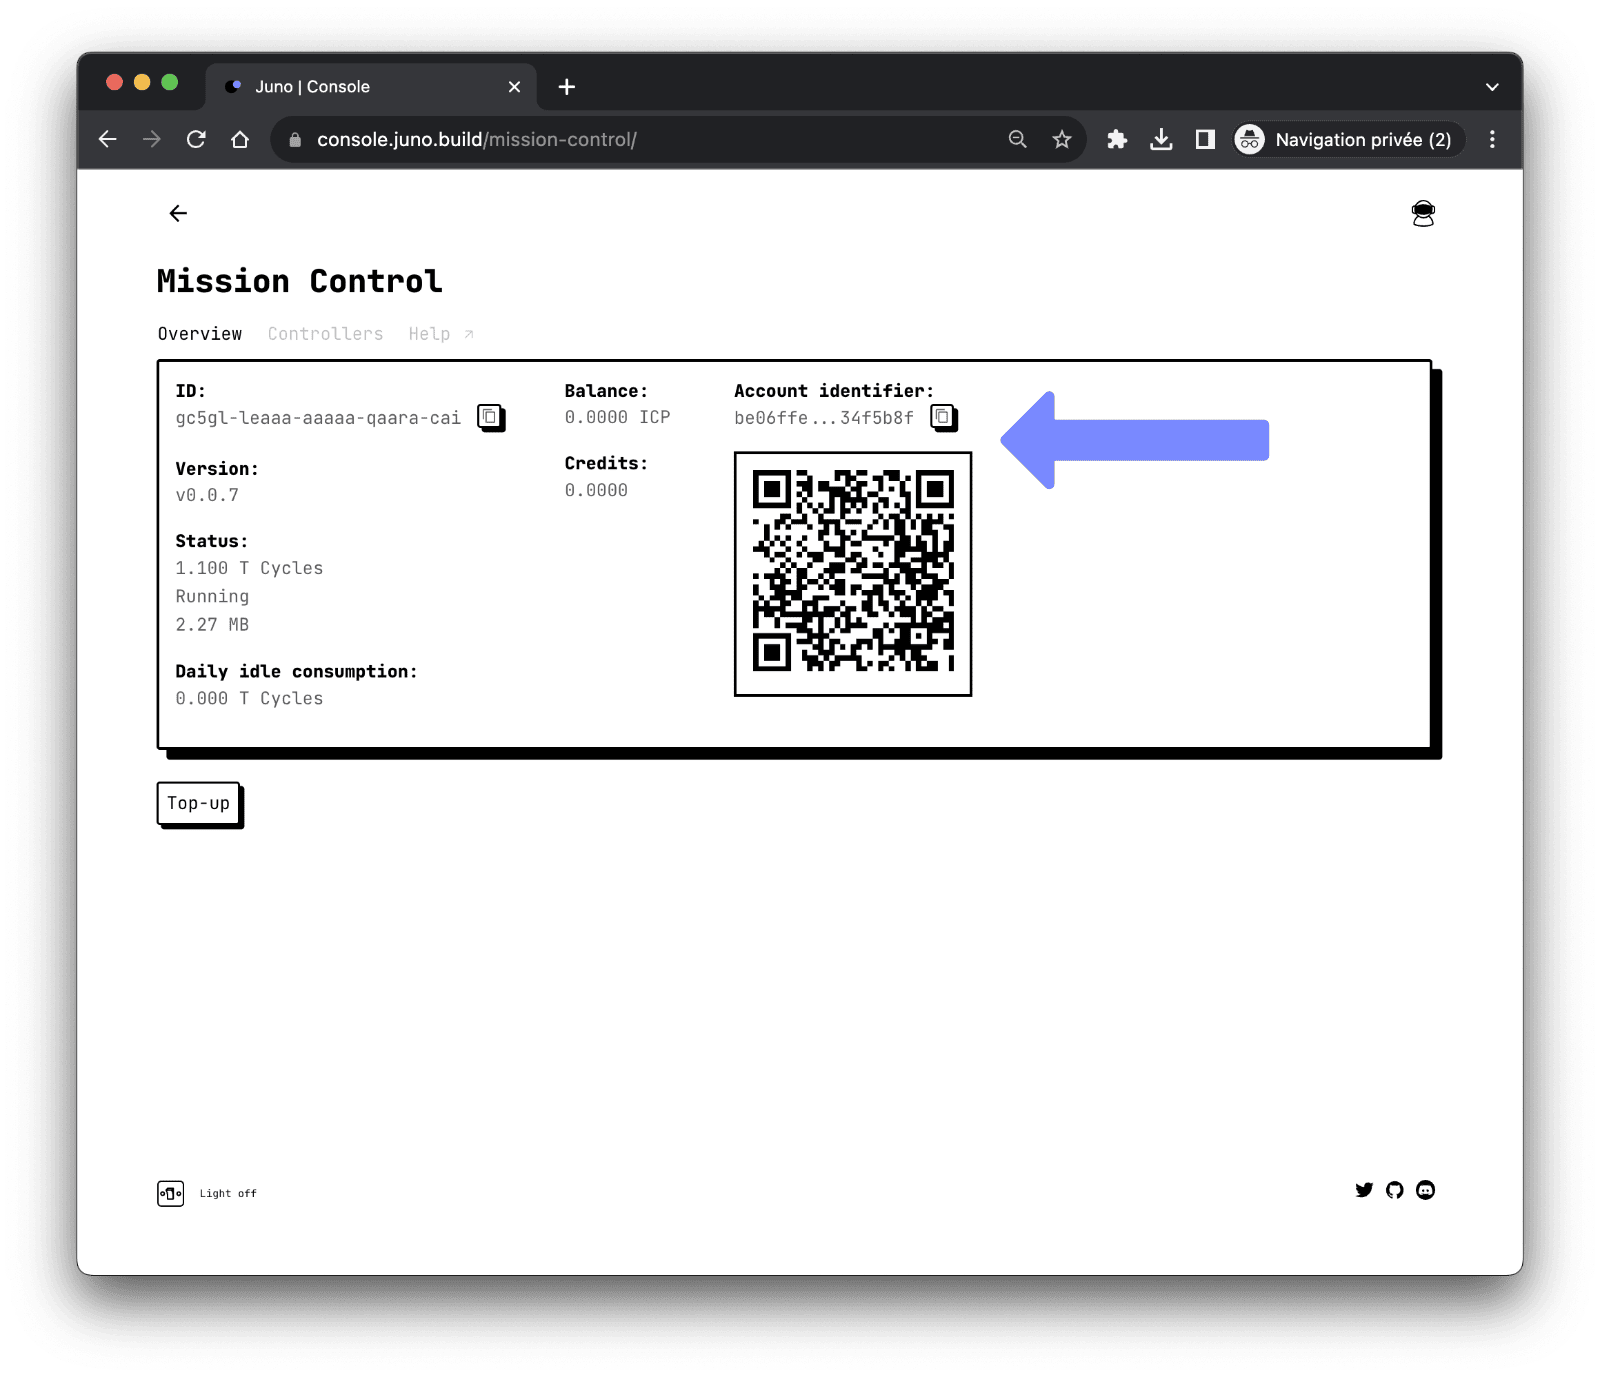
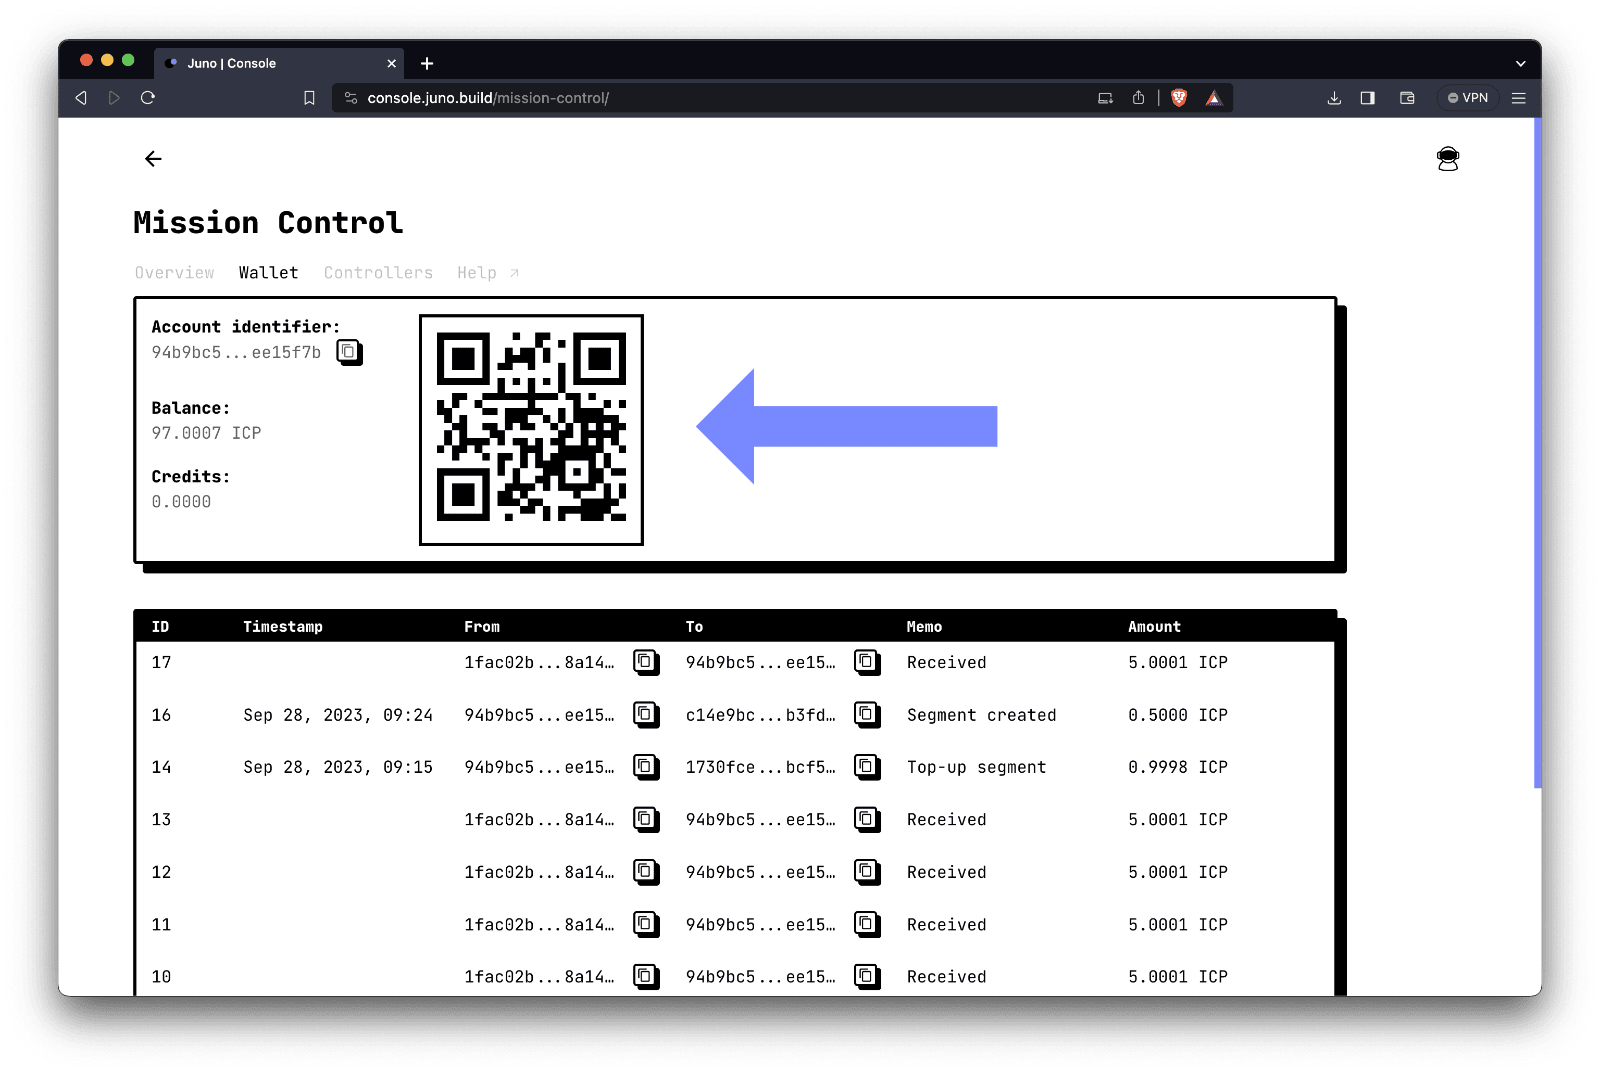
docs: new "Wallet" tab

diff --git a/docs/pricing.md b/docs/pricing.md
@@ -59,7 +59,7 @@ To send ICP to your mission control, you can use most cryptocurrency exchange pl
 
 To initiate the transaction, you will need to provide a destination address where the ICP should be sent. This destination address corresponds to the [Account Identifier](./terminology.md#account-identifier) of your mission control.
 
-You can find the destination address in Juno's console. After signing in, navigate to your personal [mission control administration page](https://console.juno.build/mission-control/) and copy your **Account Identifier** or use the QR code.
+You can locate the destination address in Juno's console. Once you've logged in, go to the [Wallet tab](https://console.juno.build/mission-control/?tab=wallet) of your personal mission control, and either copy your **Account identifier** or use the provided QR code.
 
 ![Where to find the account identifier of your mission control](./img/account-identifier.webp)
 
